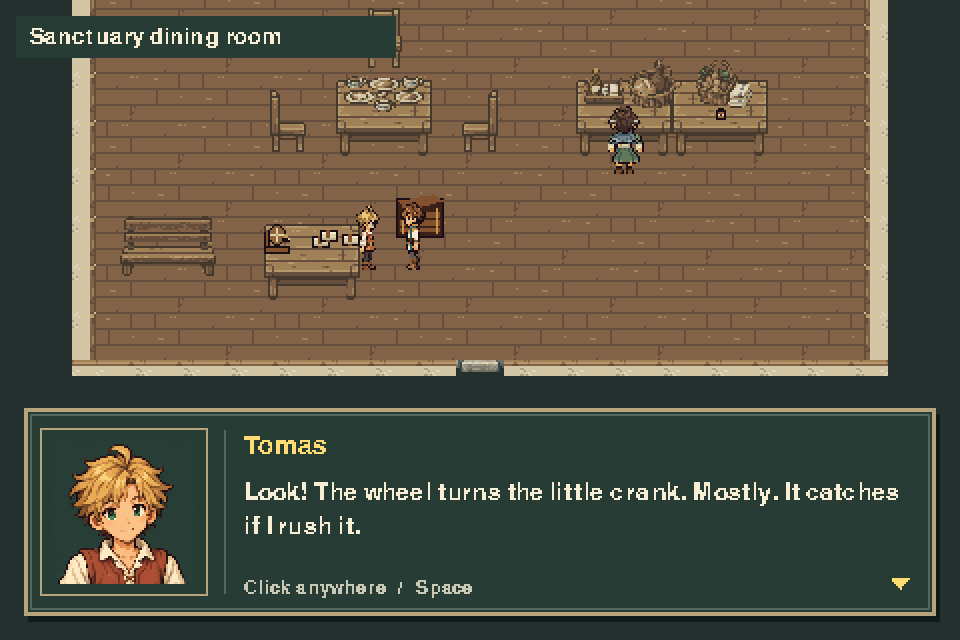
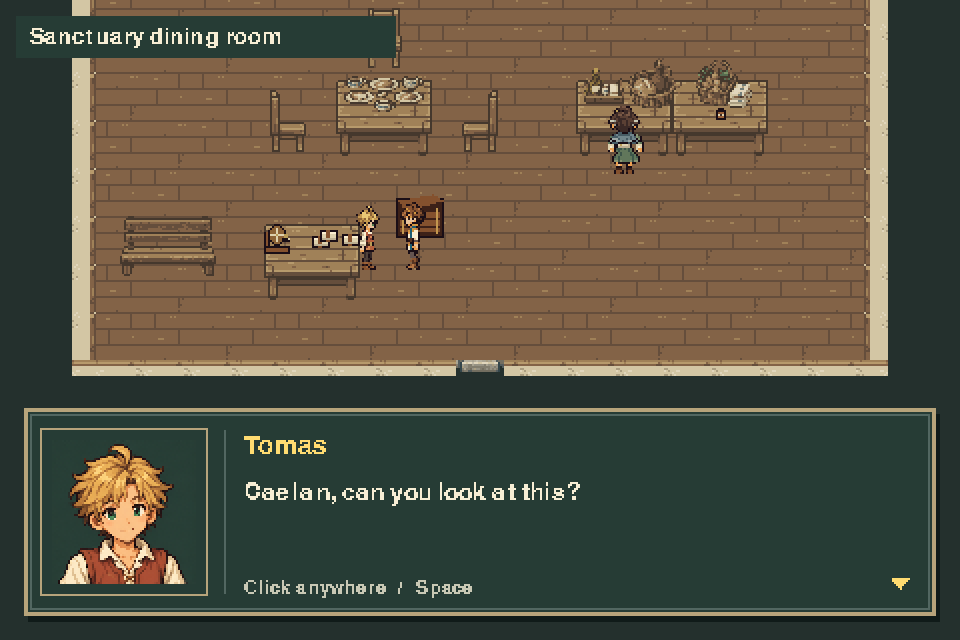
Use approved opening dialogue between Tomas and Caelan

Changed region(s): [[0.25, 0.75, 0.9375, 0.7812], [0.25, 0.8125, 0.375, 0.8438]]

diff --git a/tools/build_tomas_routines.py b/tools/build_tomas_routines.py
@@ -300,11 +300,19 @@ def register():
         {'id':'tomas_repeat','requires':['tomas_greeted'],'lines':[
             line('tomas','One more adjustment. Then I really am getting back to the preparations.'),
             line('caelan','Should I tell Mother Serene that?'),line('tomas','Tell her the preparations are progressing. That covers both things.')]},
-        {'id':'tomas_greeting','sets':['tomas_greeted'],'lines':[
-            line('tomas','Look! The wheel turns the little crank. Mostly. It catches if I rush it.'),
-            line('caelan','And the bundles?'),line('tomas','Already carried one over. I can help and have a good idea in the same morning.'),
-            line('tomas','I wonder what Mira would change. She would spot it straight away.')]}]}
-    data['note']='Serene breakfast dialogue and proposed ambient Tomas dialogue; no quest starts. Flags persist for the running session.'
+        {'id':'tomas_greeting','status':'approved',
+         'script_reference':'docs/narrative/game_01/TOMAS_AMBIENT_DIALOGUE.md',
+         'sets':['tomas_greeted'],'lines':[
+            line('tomas','Caelan, can you look at this?'),
+            line('caelan',"What's wrong?"),
+            line('tomas',"It turns most of the way, then it sticks. I can't see what's catching."),
+            line('caelan','Is the pin bent?'),
+            line('tomas','I thought so, but it looks straight.'),
+            line('caelan','Have you shown Mira?'),
+            line('tomas','Not yet. I wanted to get it working myself.'),
+            line('caelan','You can still ask her.'),
+            line('tomas',"I know. I will if I can't find it.")]}]}
+    data['note']='Serene breakfast dialogue, approved Tomas opening exchange and existing repeat dialogue; no quest starts. Flags persist for the running session.'
     write(path,data)
 
 

diff --git a/docs/narrative/game_01/TOMAS_AMBIENT_DIALOGUE.md b/docs/narrative/game_01/TOMAS_AMBIENT_DIALOGUE.md
@@ -1,0 +1,30 @@
+# Tomas and Caelan — ambient opening exchange
+
+**Status:** APPROVED for the first proximity conversation with Tomas in the
+playable town (`tomas_greeting`). This is their conversation about his wheel,
+separate from the wake-up and breakfast scenes in [the opening quest](CH01_MQ01.md).
+
+Caelan is **18** and Tomas is **14**; see [approved character facts](CHARACTERS.md).
+Tomas asks his brother for help with a specific difficulty, describes what he
+can observe, and wants to solve it himself before asking Mira. Caelan takes
+his interest seriously. Their familiar, plainspoken exchange uses workshop
+words Tomas knows without narrating his routine or making chores the focus.
+
+- **Tomas:** "Caelan, can you look at this?"
+- **Caelan:** "What's wrong?"
+- **Tomas:** "It turns most of the way, then it sticks. I can't see what's catching."
+- **Caelan:** "Is the pin bent?"
+- **Tomas:** "I thought so, but it looks straight."
+- **Caelan:** "Have you shown Mira?"
+- **Tomas:** "Not yet. I wanted to get it working myself."
+- **Caelan:** "You can still ask her."
+- **Tomas:** "I know. I will if I can't find it."
+
+The game advances these lines through the existing click-to-advance portrait
+dialogue. Completing the exchange sets `tomas_greeted` for the current session;
+subsequent conversations use the existing `tomas_repeat` exchange. This
+conversation does not start a quest or change Tomas's schedule.
+
+Runtime text: `assets/dialogue/eldenmere.json`. The matching source text in
+`tools/build_tomas_routines.py` preserves this approved exchange when rebuilding
+the routine pack.

diff --git a/docs/reviews/tomas_routines/README.md b/docs/reviews/tomas_routines/README.md
@@ -1,7 +1,7 @@
 # Tomas — sanctuary routines for review
 
-Implemented on `tomas-sanctuary-routines`; awaiting art/routine approval before
-merging into `main`.
+The sanctuary routines are approved and merged into `main`. Tomas and Caelan's
+opening exchange is also approved; see the [dialogue script](../../narrative/game_01/TOMAS_AMBIENT_DIALOGUE.md).
 
 - [Full continuous in-game cycle](full_routine.mp4)
 - [Prepare, lift, carry and store a bundle](preparations.gif)
@@ -42,9 +42,9 @@ Approaching Tomas closely uses the existing portrait dialogue system. If he is
 carrying, he finishes the short delivery and releases the bundle before turning
 to speak. If the player blocks that delivery, he can speak while holding the
 bundle, keeping it in his hands throughout the conversation. Work resumes at
-the paused phase when dialogue ends. Ambient lines
-are proposed for this review; the scripted opening quest and follower segment
-remain separate future work.
+the paused phase when dialogue ends. The first conversation uses the approved
+wheel exchange; repeat dialogue retains its existing text. The scripted opening
+quest and follower segment remain separate future work.
 
 ## Reproduce and verify
 
